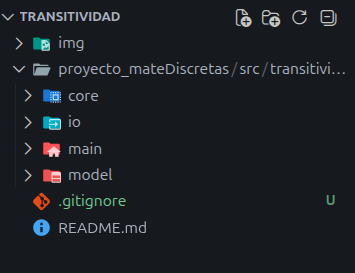
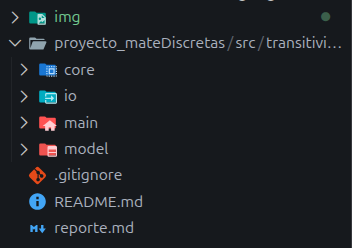
prueba para ver fotos en el reporte

diff --git a/reporte.md b/reporte.md
@@ -141,3 +141,14 @@ Para garantizar la escalabilidad, el mantenimiento y la correcta separación de 
 
 ![foto](img/foto.png)
 
+* **core/ (Núcleo de la Lógica):** Contiene la matemática pura. La clase Verificador opera de manera completamente agnóstica; su única responsabilidad es aplicar la teoría de grafos y relaciones discretas sobre las matrices proporcionadas, no conoce nada de tipos de uso, solo recibe los datos y los procesa independiente del uso que se le de.
+![core](img/core.png)
+
+* **model/ (Estructuras de Datos):** Define los objetos que transitan entre las diferentes capas de la aplicación. Encapsula las respuestas (como el objeto Resultado) para mantener un flujo de información estandarizado y seguro, asi como la persistencia de datos para en futuras versiones.
+![model](img/model.png)
+
+* **io/ (Input/Output):** Funciona como una capa de adaptación altamente extensible. Su diseño modular garantiza que el sistema pueda escalar fácilmente para recibir cualquier flujo de datos externos en el futuro —como lectura de archivos masivos, recepción de cargas JSON a través de la API RESTful proyectada, o eventos de una interfaz gráfica (GUI)— sin alterar una sola línea de código del motor matemático. Actualmente, se encarga de interceptar las entradas del usuario por consola, validar su integridad y estandarizarlas en estructuras que la capa `core` pueda procesar con seguridad.
+![io](img/io.png)
+
+* **main/:** Punto de arranque de la aplicación que inicializa e instancia las dependencias necesarias de las otras capas.
+![main](img/main.png)